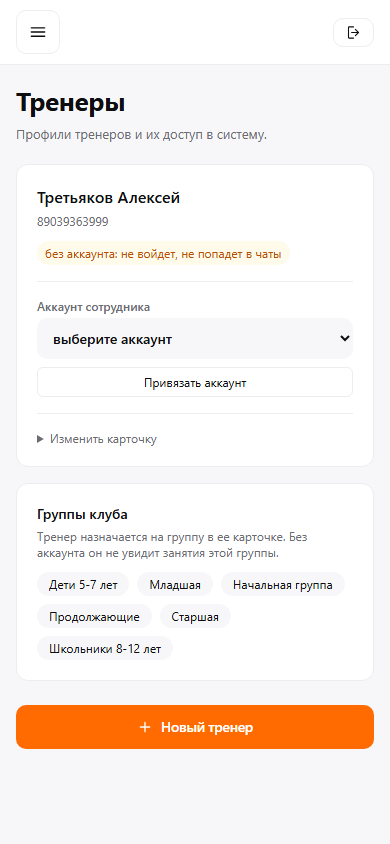
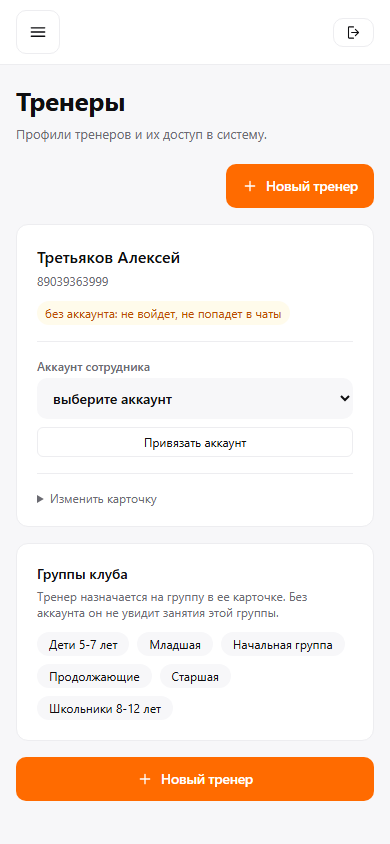
fix(admin): убрать дубль кнопки создания тренера

diff --git a/apps/admin/src/app/trainers/page.tsx b/apps/admin/src/app/trainers/page.tsx
@@ -225,8 +225,6 @@ export default async function TrainersPage() {
             </section>
           ) : null}
         </div>
-
-        {canEditCard ? <TrainerCreatePanel /> : null}
       </div>
     </AppShell>
   );
